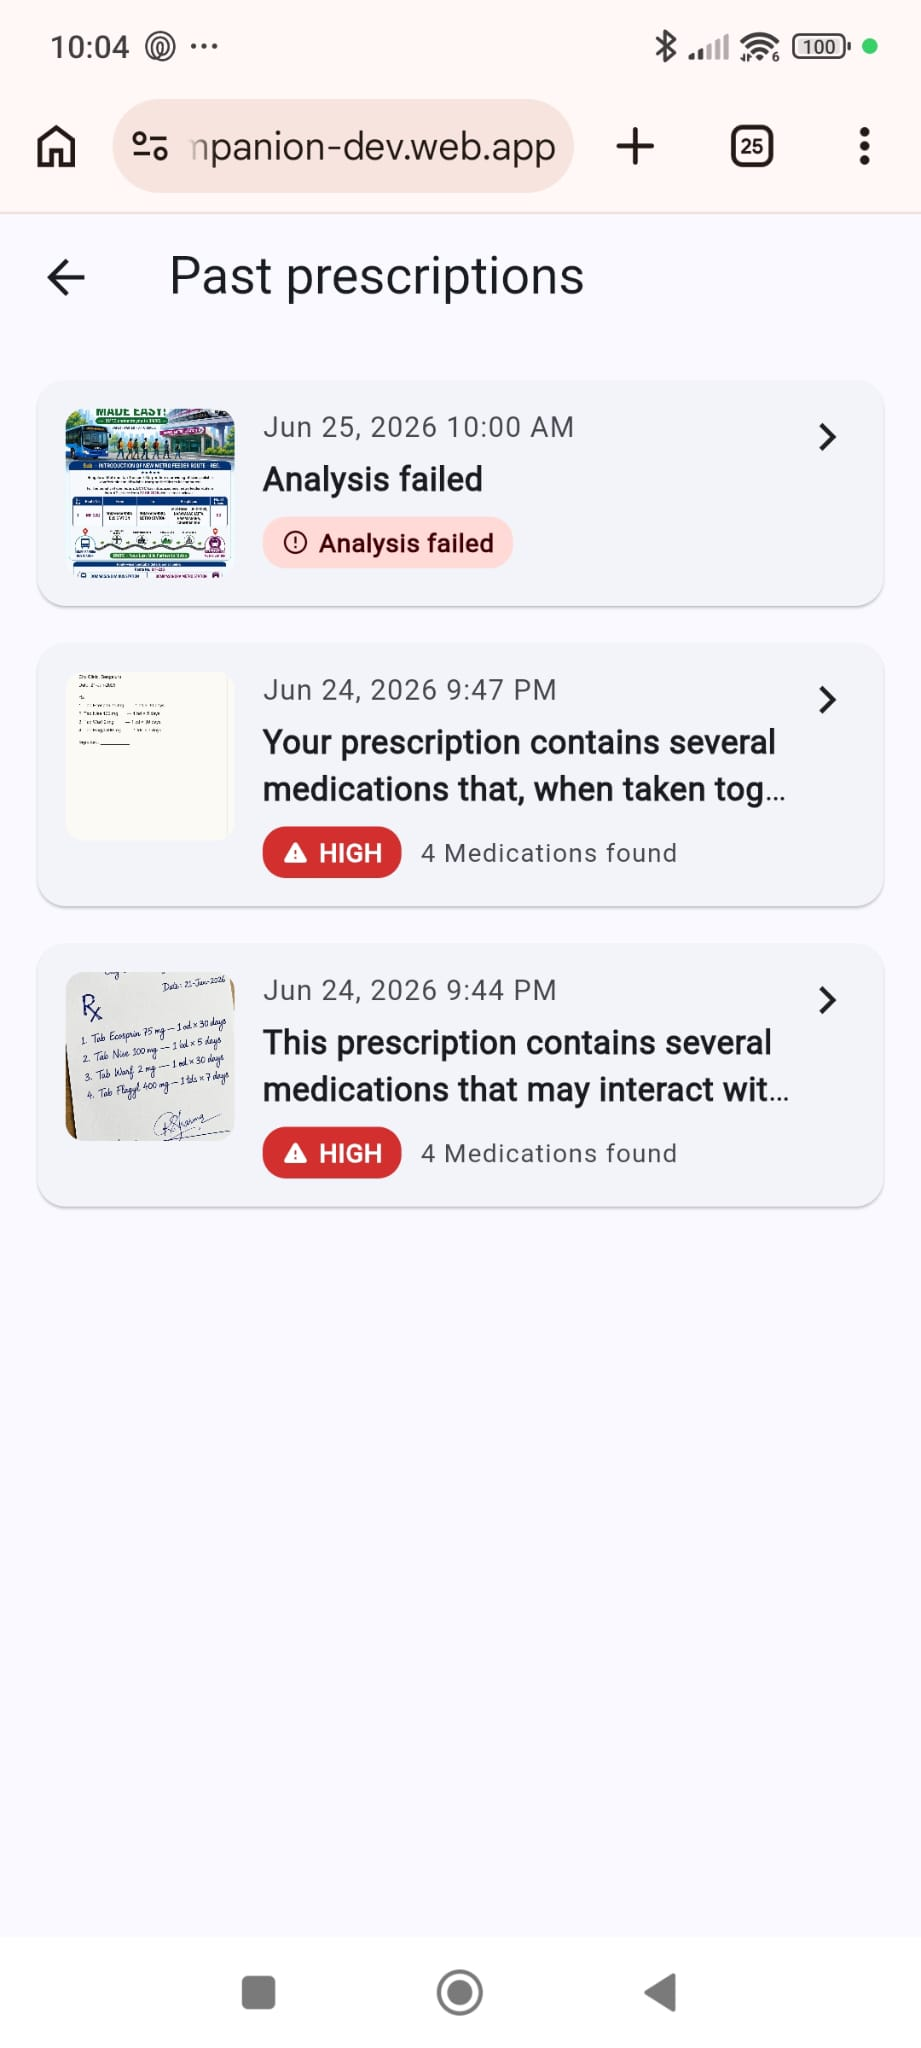
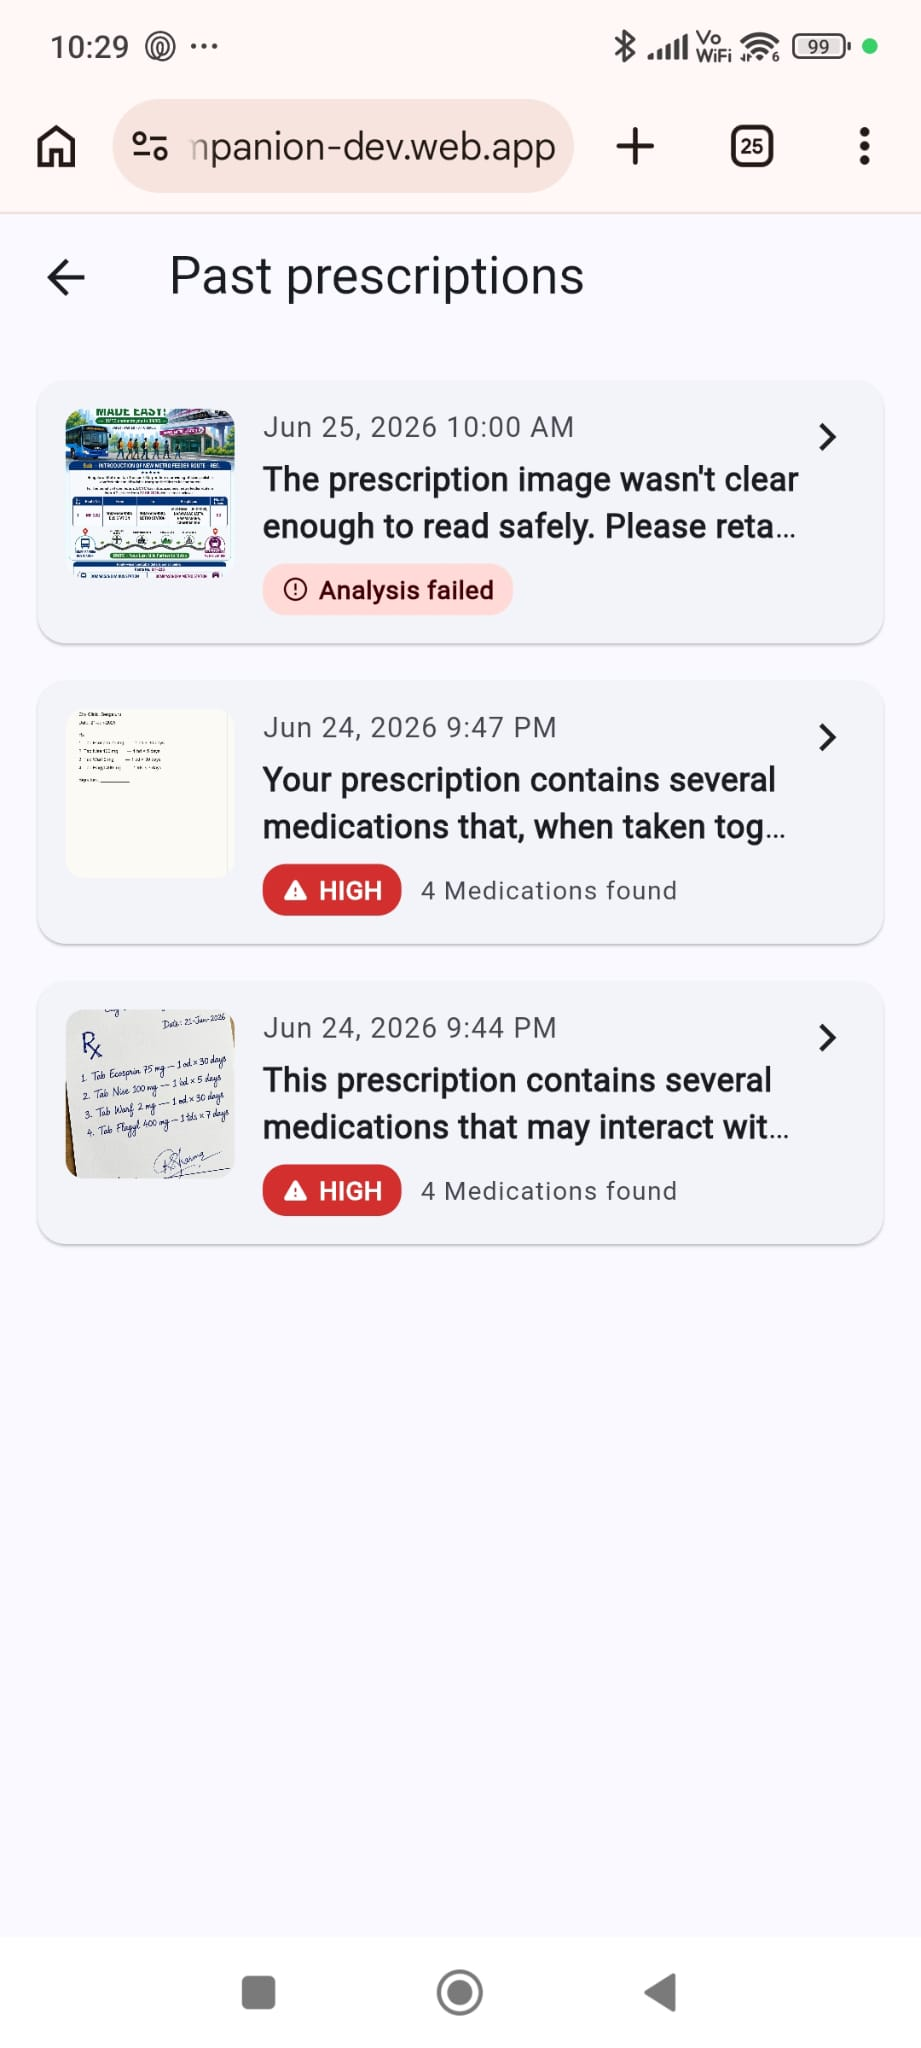
Enhance prescription history item and localization support
- Added 'error_message' field to PrescriptionHistoryItem schema to capture detailed error information.
- Implemented a new function to truncate long text for better display in summaries.
- Updated the prescription summary logic to handle gate1 rejection errors and display appropriate messages.
- Added localization strings for handling image analysis errors in multiple languages, including English, Bengali, Hindi, Tamil, and Telugu.
- Enhanced the history screen to show specific messages for failed analysis cases.

diff --git a/frontend/lib/screens/history_screen.dart b/frontend/lib/screens/history_screen.dart
@@ -46,8 +46,32 @@ class _HistoryScreenState extends State<HistoryScreen> {
     }
 
     if (item.status == 'failed') {
+      if (item.isGate1Reject) {
+        await showDialog<void>(
+          context: context,
+          builder: (ctx) => AlertDialog(
+            title: Text(l10n.historyGate1Title),
+            content: Text(
+              item.errorMessage ?? item.summaryOneLiner ?? l10n.historyGate1Title,
+            ),
+            actions: [
+              FilledButton.icon(
+                onPressed: () {
+                  Navigator.of(ctx).pop();
+                  router.go('/upload');
+                },
+                icon: const Icon(Icons.camera_alt_outlined),
+                label: Text(l10n.retakePhoto),
+              ),
+            ],
+          ),
+        );
+        return;
+      }
       messenger.showSnackBar(
-        SnackBar(content: Text(l10n.historyFailed)),
+        SnackBar(
+          content: Text(item.errorMessage ?? l10n.historyFailed),
+        ),
       );
       return;
     }
@@ -185,12 +209,15 @@ class _HistoryCard extends StatelessWidget {
   }
 
   String _statusLabel(AppLocalizations l10n, PrescriptionHistoryItem item) {
+    if (item.summaryOneLiner != null && item.summaryOneLiner!.isNotEmpty) {
+      return item.summaryOneLiner!;
+    }
     switch (item.status) {
       case 'pending':
       case 'processing':
         return l10n.historyProcessing;
       case 'failed':
-        return l10n.historyFailed;
+        return item.isGate1Reject ? l10n.historyGate1Title : l10n.historyFailed;
       default:
         return l10n.prescriptionAnalysis;
     }
@@ -215,6 +242,14 @@ class _StatusChip extends StatelessWidget {
       );
     }
     if (item.status == 'failed') {
+      if (item.isGate1Reject) {
+        return _chip(
+          label: l10n.historyGate1Chip,
+          bg: theme.colorScheme.tertiaryContainer,
+          fg: theme.colorScheme.onTertiaryContainer,
+          icon: Icons.image_not_supported_outlined,
+        );
+      }
       return _chip(
         label: l10n.historyFailed,
         bg: theme.colorScheme.errorContainer,

diff --git a/frontend/lib/models/prescription_history_item.dart b/frontend/lib/models/prescription_history_item.dart
@@ -10,6 +10,7 @@ class PrescriptionHistoryItem {
   final int? drugCount;
   final String? summaryOneLiner;
   final String? errorCode;
+  final String? errorMessage;
 
   const PrescriptionHistoryItem({
     required this.jobId,
@@ -21,11 +22,13 @@ class PrescriptionHistoryItem {
     this.drugCount,
     this.summaryOneLiner,
     this.errorCode,
+    this.errorMessage,
   });
 
   bool get isTerminal => status == 'done' || status == 'failed';
   bool get isReady => status == 'done';
   bool get isInProgress => status == 'pending' || status == 'processing';
+  bool get isGate1Reject => errorCode == 'gate1_reject';
 
   factory PrescriptionHistoryItem.fromJson(Map<String, dynamic> json) {
     DateTime parseDate(String? raw) {
@@ -44,6 +47,7 @@ class PrescriptionHistoryItem {
       drugCount: json['drug_count'] as int?,
       summaryOneLiner: json['summary_one_liner'] as String?,
       errorCode: json['error_code'] as String?,
+      errorMessage: json['error_message'] as String?,
     );
   }
 }

diff --git a/frontend/lib/l10n/app_localizations.dart b/frontend/lib/l10n/app_localizations.dart
@@ -626,6 +626,18 @@ abstract class AppLocalizations {
   /// **'Analysis failed'**
   String get historyFailed;
 
+  /// No description provided for @historyGate1Chip.
+  ///
+  /// In en, this message translates to:
+  /// **'Needs retake'**
+  String get historyGate1Chip;
+
+  /// No description provided for @historyGate1Title.
+  ///
+  /// In en, this message translates to:
+  /// **'Couldn\'t analyse this image'**
+  String get historyGate1Title;
+
   /// No description provided for @historyImageUnavailable.
   ///
   /// In en, this message translates to:

diff --git a/frontend/lib/l10n/app_localizations_ta.dart b/frontend/lib/l10n/app_localizations_ta.dart
@@ -293,6 +293,12 @@ class AppLocalizationsTa extends AppLocalizations {
   String get historyFailed => 'பரிசோதனை தோல்வியடைந்தது';
 
   @override
+  String get historyGate1Chip => 'புதிய படம் தேவை';
+
+  @override
+  String get historyGate1Title => 'இந்த படத்தை படிக்க முடியவில்லை';
+
+  @override
   String get historyImageUnavailable => 'படம் கிடைக்கவில்லை';
 
   @override

diff --git a/frontend/lib/l10n/app_localizations_te.dart b/frontend/lib/l10n/app_localizations_te.dart
@@ -288,6 +288,12 @@ class AppLocalizationsTe extends AppLocalizations {
   String get historyFailed => 'విశ్లేషణ విఫలమైంది';
 
   @override
+  String get historyGate1Chip => 'కొత్త ఫోటో అవసరం';
+
+  @override
+  String get historyGate1Title => 'ఈ చిత్రాన్ని చదవలేకపోయాము';
+
+  @override
   String get historyImageUnavailable => 'చిత్రం అందుబాటులో లేదు';
 
   @override

diff --git a/frontend/lib/l10n/app_localizations_hi.dart b/frontend/lib/l10n/app_localizations_hi.dart
@@ -286,6 +286,12 @@ class AppLocalizationsHi extends AppLocalizations {
   String get historyFailed => 'जाँच पूरी नहीं हो पाई';
 
   @override
+  String get historyGate1Chip => 'नई फोटो चाहिए';
+
+  @override
+  String get historyGate1Title => 'यह फोटो पढ़ी नहीं जा सकी';
+
+  @override
   String get historyImageUnavailable => 'फोटो उपलब्ध नहीं है';
 
   @override

diff --git a/frontend/lib/l10n/app_localizations_bn.dart b/frontend/lib/l10n/app_localizations_bn.dart
@@ -287,6 +287,12 @@ class AppLocalizationsBn extends AppLocalizations {
   String get historyFailed => 'বিশ্লেষণ ব্যর্থ হয়েছে';
 
   @override
+  String get historyGate1Chip => 'নতুন ছবি দরকার';
+
+  @override
+  String get historyGate1Title => 'এই ছবিটি পড়া যায়নি';
+
+  @override
   String get historyImageUnavailable => 'ছবি উপলব্ধ নয়';
 
   @override

diff --git a/frontend/lib/l10n/app_localizations_en.dart b/frontend/lib/l10n/app_localizations_en.dart
@@ -287,6 +287,12 @@ class AppLocalizationsEn extends AppLocalizations {
   String get historyFailed => 'Analysis failed';
 
   @override
+  String get historyGate1Chip => 'Needs retake';
+
+  @override
+  String get historyGate1Title => 'Couldn\'t analyse this image';
+
+  @override
   String get historyImageUnavailable => 'Image unavailable';
 
   @override

diff --git a/tests/unit/test_history_endpoints.py b/tests/unit/test_history_endpoints.py
@@ -10,6 +10,7 @@ from httpx import ASGITransport, AsyncClient
 import auth_broker.job_store as job_store_module
 from schemas import (
     InteractionFinding,
+    JobError,
     PrescriptionResult,
     ResolvedDrug,
 )
@@ -136,6 +137,40 @@ async def test_list_prescriptions_projects_summary_fields(broker_app):
     assert pending_item["status"] == "pending"
     assert pending_item["overall_severity"] is None
     assert pending_item["drug_count"] is None
+
+
+@pytest.mark.asyncio
+async def test_list_prescriptions_projects_gate1_reject_message(broker_app):
+    store = job_store_module.get_job_store()
+    await store.create_job(
+        job_id="gate1-1",
+        patient_id=PATIENT,
+        gcs_uri=f"gs://test-bucket/prescriptions/{PATIENT}/gate1-1.jpg",
+        language="en-IN",
+        content_type="image/jpeg",
+    )
+    await store.set_failed(
+        "gate1-1",
+        JobError(
+            code="gate1_reject",
+            message=(
+                "That doesn't look like a prescription. Please upload a clear photo "
+                "of your prescription. Please discuss this with your doctor or pharmacist."
+            ),
+            reason="non_prescription_image",
+        ),
+    )
+
+    async with AsyncClient(
+        transport=ASGITransport(app=broker_app), base_url="http://test"
+    ) as client:
+        resp = await client.get("/prescriptions")
+
+    item = next(i for i in resp.json()["items"] if i["job_id"] == "gate1-1")
+    assert item["status"] == "failed"
+    assert item["error_code"] == "gate1_reject"
+    assert "doesn't look like a prescription" in item["error_message"]
+    assert "doesn't look like a prescription" in item["summary_one_liner"]
 
 
 @pytest.mark.asyncio

diff --git a/backend/auth_broker/main.py b/backend/auth_broker/main.py
@@ -316,18 +316,29 @@ async def get_prescription_job(job_id: str, request: Request):
     return job
 
 
+def _truncate_one_liner(text: str, *, limit: int = 140) -> str:
+    first_line = text.splitlines()[0].strip()
+    if len(first_line) <= limit:
+        return first_line
+    return first_line[: limit - 3] + "..."
+
+
 def _summarise_job(job: PrescriptionJobStatus) -> PrescriptionHistoryItem:
     """Project a job document into the lighter history item shape."""
     overall_severity = None
     drug_count = None
     summary = None
+    error_message = None
     if job.result is not None:
         overall_severity = job.result.overall_severity
         drug_count = len(job.result.resolved_drugs)
         text = (job.result.explanation_localised or job.result.explanation_en or "").strip()
         if text:
-            first_line = text.splitlines()[0]
-            summary = first_line if len(first_line) <= 140 else first_line[:137] + "..."
+            summary = _truncate_one_liner(text)
+    elif job.error is not None:
+        error_message = job.error.message.strip() or None
+        if error_message:
+            summary = _truncate_one_liner(error_message)
     # Language is stored on the job doc but not on PrescriptionJobStatus; fall
     # back to the result's localised explanation locale when present.
     language = getattr(job, "language", None) or "en-IN"
@@ -341,6 +352,7 @@ def _summarise_job(job: PrescriptionJobStatus) -> PrescriptionHistoryItem:
         drug_count=drug_count,
         summary_one_liner=summary,
         error_code=(job.error.code if job.error is not None else None),
+        error_message=error_message,
     )
 
 

diff --git a/backend/schemas.py b/backend/schemas.py
@@ -77,6 +77,7 @@ class PrescriptionHistoryItem(BaseModel):
     drug_count: int | None = None
     summary_one_liner: str | None = None
     error_code: str | None = None
+    error_message: str | None = None
 
 
 class PrescriptionListResponse(BaseModel):

diff --git a/README.md b/README.md
@@ -310,7 +310,7 @@ disclosure process in [`SECURITY.md`](SECURITY.md).
 
 ## Acknowledgements
 
-This project began as a capstone for the 2026 Kaggle 5-Day AI Agents Intensive.
+This project began as a capstone for the 2026 Kaggle 5-Day AI Agents Intensive Vibe Coding.
 It builds on:
 
 - [Google Agent Development Kit (ADK)](https://google.github.io/adk-docs/)
